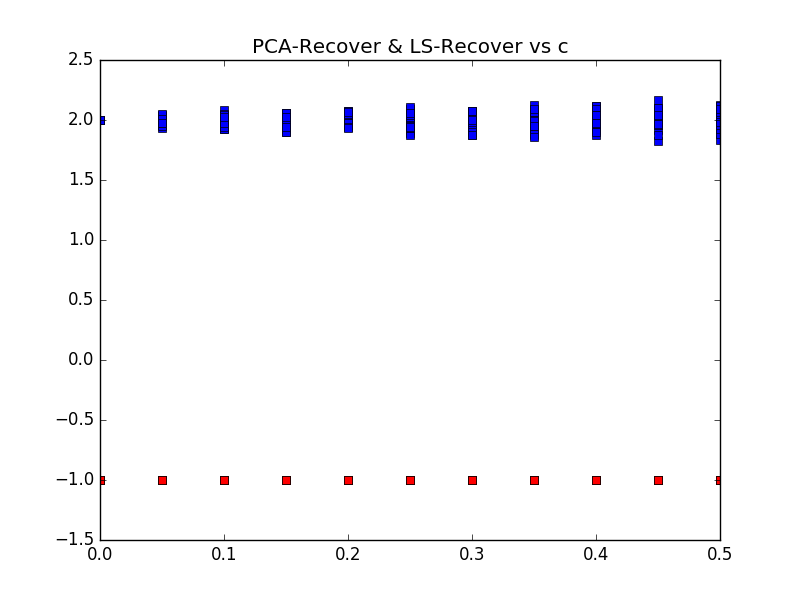
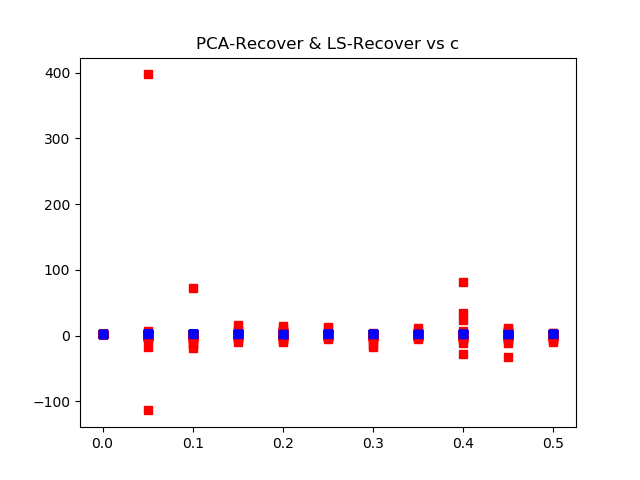
fixed pca recover

diff --git a/P4/code.py b/P4/code.py
@@ -190,8 +190,9 @@ def make_plot_1F(nucleobases_size, interesting_vector, file_name):
 def pca_recover(X, Y):
 	vector_list = [X, Y]
 	vector_array = np.array(vector_list)
-	pca = run_PCA(vector_array, 1)
-	slope = pca[0][0] / pca[1][0]
+	#print("shape of vector array: ", vector_array.shape)
+	pca = run_PCA_get_v(vector_array, 1, 1)
+	slope = pca[0][1] / pca[0][0]
 	return slope
 
 def ls_recover(X, Y):
@@ -199,8 +200,14 @@ def ls_recover(X, Y):
 	Y_mean = np.mean(Y)
 	numerator = np.dot(X - X_mean, Y - Y_mean)
 	denominator = ((X - X_mean)**2).sum()
-	print(numerator/denominator)
+	#print(numerator/denominator)
 	return numerator/denominator
+
+# X_a = [x * 0.001 for x in range(1, 1001)]
+# y_a = [2 * x for x in X_a]
+
+# print("pca_recover: ", pca_recover(X_a, y_a))
+# print("ls recover: ", ls_recover(X_a, y_a)) 
 
 from numpy.random import randn
 
@@ -217,7 +224,9 @@ def make_X(c):
 	X = np.array([i * .001 for i in range(1, 1001)])
 	noise = randn(1000) * np.sqrt(c)
 	X += noise
+	#print("shape of X: ", X.shape)
 	return X
+
 
 def make_plot_2(filename, X = None):
 	# c on horizontal axis
@@ -234,7 +243,6 @@ def make_plot_2(filename, X = None):
 			ls = ls_recover(X, Y)
 			plt.plot(c, pca, 'rs', label="PCA-Recover")
 			plt.plot(c, ls, 'bs', label="LS-Recover")
-
 	plt.savefig(filename + ".png", format = 'png')
 	plt.close()
 
@@ -248,7 +256,7 @@ make_plot_2("2d")
 	
 
 
-identifiers, sexes, population_tag, nucleobases = process_text_file('p4dataset2018.txt')
-nucleobases_binary = convert_array_to_binary(nucleobases)
+# identifiers, sexes, population_tag, nucleobases = process_text_file('p4dataset2018.txt')
+# nucleobases_binary = convert_array_to_binary(nucleobases)
 
-	
+# 	
